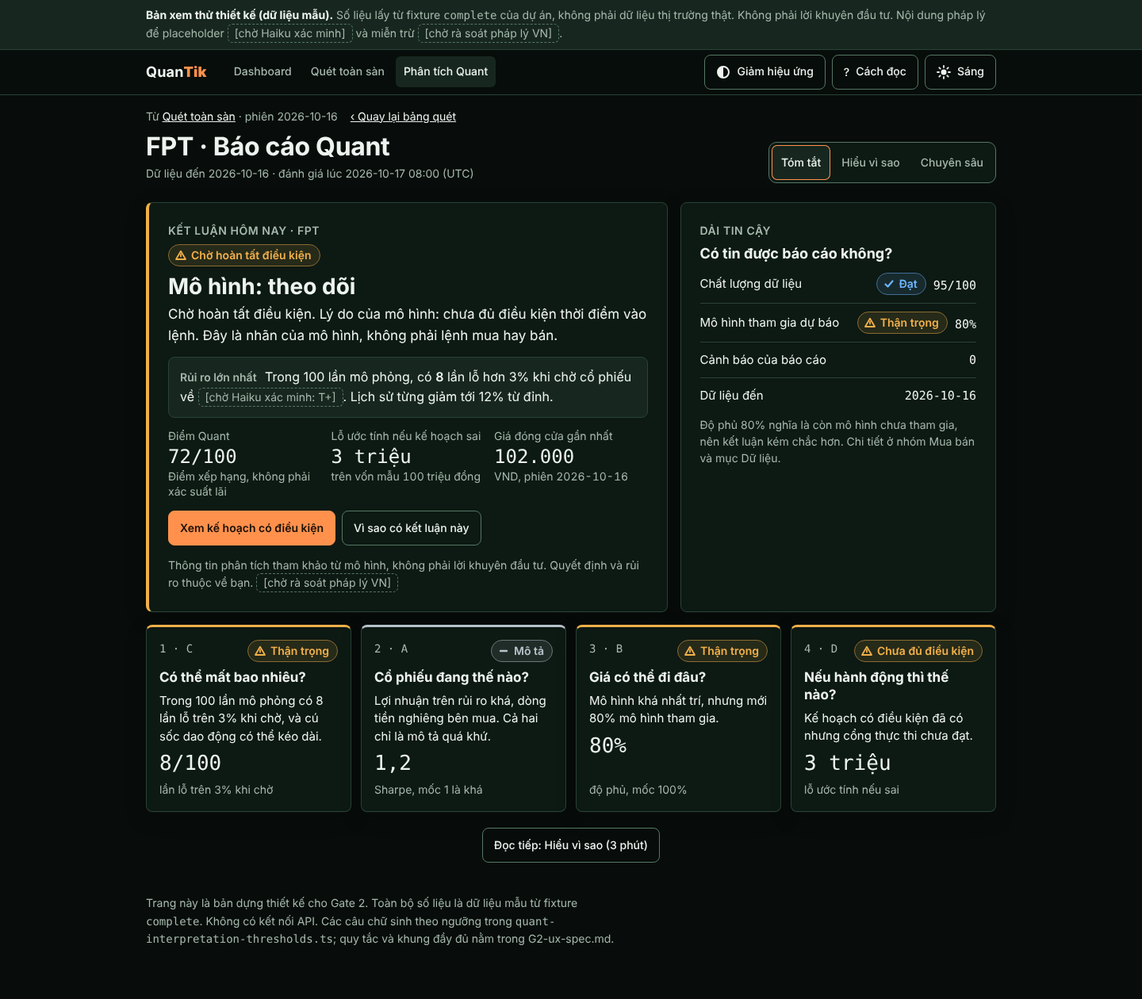
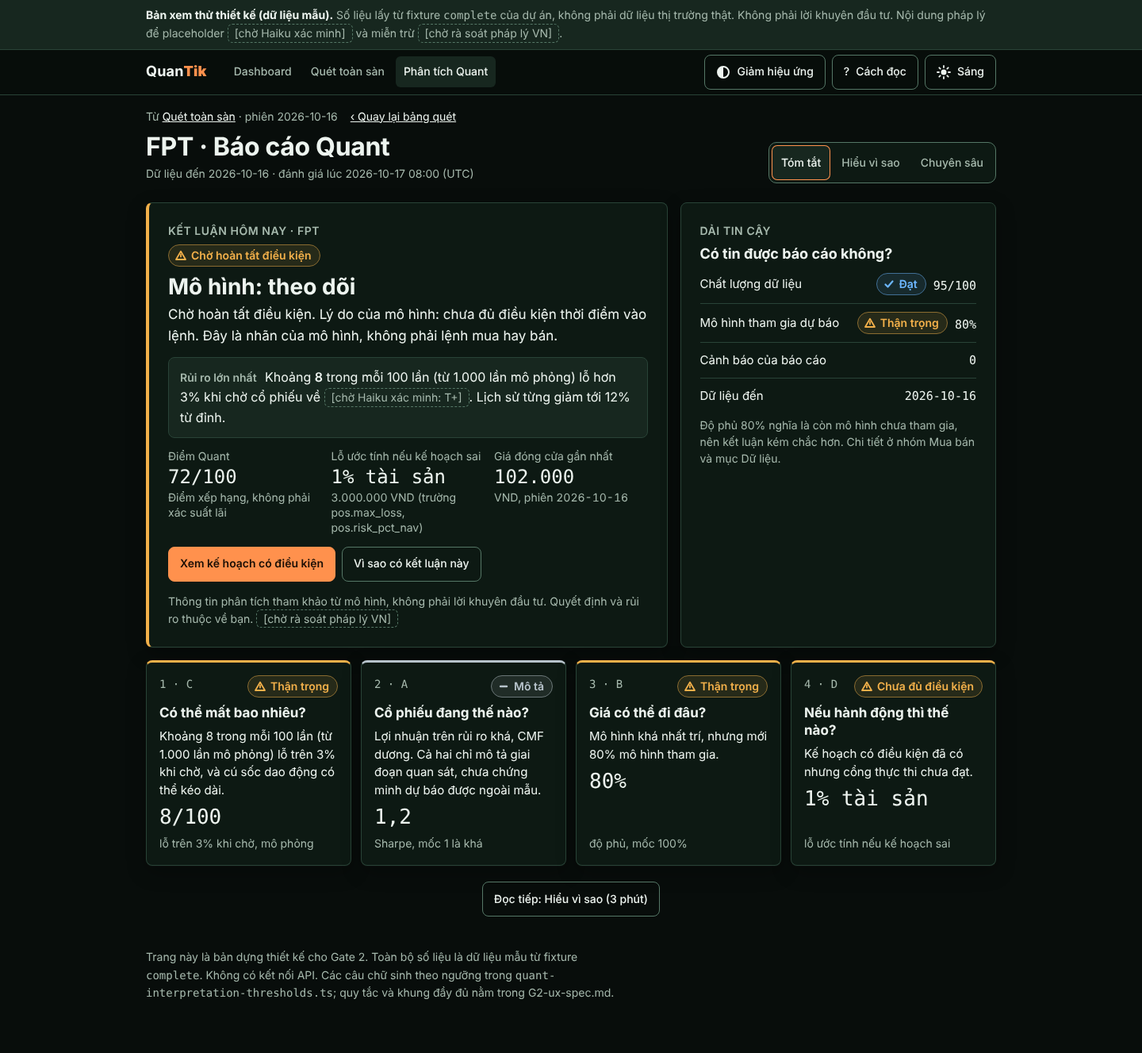
research(redesign): fix Gate 2 math blockers in UX spec and demo
Claude-Session: https://claude.ai/code/session_01QizWzvfjpXpCBjrxjmQdSi

diff --git a/research/2026-11/redesign/demo/index.html b/research/2026-11/redesign/demo/index.html
@@ -295,10 +295,10 @@ html.calm .slide.anim .barfill{transform:none!important}
         <span class="chip caution" id="vchip"></span>
         <h2 id="vh">Mô hình: theo dõi</h2>
         <p class="lead">Chờ hoàn tất điều kiện. Lý do của mô hình: chưa đủ điều kiện thời điểm vào lệnh. Đây là nhãn của mô hình, không phải lệnh mua hay bán.</p>
-        <div class="risk-line" data-tour-risk><span><span class="lab">Rủi ro lớn nhất</span> Trong 100 lần mô phỏng, có <b>8</b> lần lỗ hơn 3% khi chờ cổ phiếu về <span class="badge">[chờ Haiku xác minh: T+]</span>. Lịch sử từng giảm tới 12% từ đỉnh.</span></div>
+        <div class="risk-line" data-tour-risk><span><span class="lab">Rủi ro lớn nhất</span> Khoảng <b>8</b> trong mỗi 100 lần (từ 1.000 lần mô phỏng) lỗ hơn 3% khi chờ cổ phiếu về <span class="badge">[chờ Haiku xác minh: T+]</span>. Lịch sử từng giảm tới 12% từ đỉnh.</span></div>
         <dl class="kv">
           <div><dt>Điểm Quant</dt><dd>72/100<small>Điểm xếp hạng, không phải xác suất lãi</small></dd></div>
-          <div><dt>Lỗ ước tính nếu kế hoạch sai</dt><dd>3 triệu<small>trên vốn mẫu 100 triệu đồng</small></dd></div>
+          <div><dt>Lỗ ước tính nếu kế hoạch sai</dt><dd>1% tài sản<small>3.000.000 VND (trường pos.max_loss, pos.risk_pct_nav)</small></dd></div>
           <div><dt>Giá đóng cửa gần nhất</dt><dd>102.000<small>VND, phiên 2026-10-16</small></dd></div>
         </dl>
         <div class="cta">
@@ -339,7 +339,7 @@ html.calm .slide.anim .barfill{transform:none!important}
     <article class="card" aria-labelledby="mch">
       <p class="eyebrow">10 · MONTE CARLO</p>
       <h3 id="mch">Giá sau 3 phiên có thể nằm đâu?</h3>
-      <p style="margin:6px 0 14px;max-width:68ch">Trong 100 lần mô phỏng, 62 lần giá cao hơn hôm nay và 38 lần thấp hơn hoặc bằng. <span id="p9">Chín trong mười lần, giá nằm trong dải P05 đến P95.</span> Đây là kịch bản mô phỏng, không phải lời hứa.</p>
+      <p style="margin:6px 0 14px;max-width:68ch">Khoảng 62 trong mỗi 100 lần (từ 1.000 lần mô phỏng), giá sau 3 phiên cao hơn hôm nay; khoảng 38 trong 100 lần thấp hơn hoặc bằng. <span id="p9">Ở mỗi phiên, 9 trong 10 lần giá nằm trong dải P05 đến P95.</span> Đây là kịch bản mô phỏng, không phải lời hứa.</p>
       <div class="mc-layout">
         <figure class="vis fan anim" id="fan" style="margin:0">
           <div id="fanbox"></div>
@@ -347,15 +347,20 @@ html.calm .slide.anim .barfill{transform:none!important}
           <figcaption>Dải ngoài là P05 đến P95 (9 trong 10 lần). Dải trong là P25 đến P75 (1 nửa số lần). Đường liền là P50. Điểm gốc là giá đóng cửa gần nhất. Trục ngang là số phiên sau hôm nay.</figcaption>
         </figure>
         <div>
-          <p class="lab" style="margin:0 0 8px">62 trong 100 lần mô phỏng</p>
-          <div class="dotgrid anim" id="dots100" role="img" aria-label="Lưới 100 chấm: 62 chấm đặc là giá cao hơn hôm nay, 38 chấm rỗng là giá thấp hơn hoặc bằng"></div>
+          <p class="lab" style="margin:0 0 8px">Khoảng 62 trong mỗi 100 lần (từ 1.000 lần mô phỏng)</p>
+          <div class="dotgrid anim" id="dots100" role="img" aria-label="Lưới 100 chấm, mỗi chấm là 1% trong 1.000 lần mô phỏng: 62 chấm đặc là giá cao hơn hôm nay, 38 chấm rỗng là thấp hơn hoặc bằng"></div>
           <ul class="legend"><li><i class="a"></i>62: giá cao hơn hôm nay</li><li><i class="c"></i>38: thấp hơn hoặc bằng</li></ul>
           <dl class="nums" style="grid-template-columns:1fr 1fr;margin-top:14px">
-            <div><dt>Lỗ tối đa khi chờ cổ phiếu về</dt><dd>-4%</dd></div>
-            <div><dt>Lỗ trên 3% khi chờ</dt><dd>8/100</dd></div>
+            <div><dt>Sụt giảm khi chờ cổ phiếu về (mô phỏng)</dt><dd>-4%</dd></div>
+            <div><dt>Lỗ trên 3% khi chờ (khoảng 80 trên 1.000 lần)</dt><dd>8/100</dd></div>
           </dl>
         </div>
       </div>
+      <figure class="vis" id="simhist" style="margin:18px 0 0">
+        <p class="lab" style="margin:0 0 8px">Phân phối giá cuối kỳ mô phỏng (3 nhóm)</p>
+        <div id="simhistbox"></div>
+        <figcaption>Nguồn: phân phối mô phỏng Monte Carlo (research.distribution, 1.000 lần), không phải lợi suất lịch sử. Mỗi cột là tỷ lệ kịch bản có lợi suất cuối kỳ trong nhóm đó. Chỉ có 3 nhóm, không phải phân phối đầy đủ.</figcaption>
+      </figure>
       <details class="alt"><summary>Bảng số thay thế cho biểu đồ</summary>
         <div class="scroll-x"><table class="tbl"><caption>Phân vị giá mô phỏng (VND). Phiên 0 là giá đóng cửa gần nhất.</caption>
         <thead><tr><th scope="col">Phiên</th><th scope="col">P05</th><th scope="col">P25</th><th scope="col">P50</th><th scope="col">P75</th><th scope="col">P95</th></tr></thead><tbody id="tbody"></tbody></table></div>
@@ -417,21 +422,21 @@ var G={
  pers:['Độ dai dẳng α+β: cú sốc kéo dài bao lâu','Từ 0,9 là kéo dài; từ 1 là không có mức dài hạn ổn định.','Trong báo cáo này: 0,96.'],
  half:['Chu kỳ bán rã: số phiên để cú sốc giảm một nửa','Của độ dao động, không phải của giá.','Trong báo cáo này: 17 phiên.'],
  hmm:['HMM: trạng thái thị trường ẩn','Mô hình đoán thị trường đang ở pha tăng, đi ngang hay giảm.',''],
- filt:['Xác suất lọc: độ chắc của nhãn trạng thái','Chỉ dùng dữ liệu đến phiên cuối. Không phải xác suất lãi và không dùng để ra lệnh.','Trong báo cáo này: pha tăng 67%.'],
- cmf:['CMF: dòng tiền ước lượng','Tính từ vị trí đóng cửa và khối lượng. Trên 0 là nghiêng về bên mua. Không phải tiền nạp rút thật.','Trong báo cáo này: 0,21.'],
+ pk:['Xác suất trạng thái: độ chắc của nhãn','Báo cáo chưa nói đây là xác suất lọc (chỉ dùng dữ liệu đến phiên cuối) hay làm mượt (dùng cả dữ liệu về sau). Chưa rõ loại xác suất (lọc/làm mượt), nên chỉ đọc như mô tả. Không phải xác suất lãi.','Trong báo cáo này: pha tăng 67%.'],
+ cmf:['CMF: dòng tiền ước lượng','Tính từ vị trí đóng cửa và khối lượng. Trên 0: giá đóng cửa gần đỉnh phiên hơn. Chỉ mô tả giai đoạn quan sát, chưa chứng minh dự báo được ngoài mẫu. Không phải tiền nạp rút thật.','Trong báo cáo này: 0,21.'],
  er:['ER: hiệu quả xu hướng','Từ 0,3 trở xuống là đường giá nhiều nhiễu.','Trong báo cáo này: 0,58.'],
  rs20:['RS20: sức mạnh 20 phiên so với VN-Index','Dương nghĩa là lợi suất 20 phiên vượt VN-Index.','Trong báo cáo này: +4,2%.'],
  corr:['Tương quan: hai mã có cùng chiều không','Từ -1 đến +1. Gần 0 không chứng minh độc lập.','Trong báo cáo này: 0,64.'],
- mom:['Momentum: đà giá gần đây','Điểm có dấu để mô tả. Không phải tín hiệu mua bán.','Trong báo cáo này: 0,4.'],
+ mom:['Momentum: đà giá gần đây','Điểm có dấu để mô tả quá khứ. Chưa chứng minh dự báo được ngoài mẫu.','Trong báo cáo này: 0,4.'],
  hurst:['Hurst: xu hướng duy trì hay đảo chiều','Trên 0,5 gợi ý duy trì, dưới 0,5 gợi ý đảo chiều. Ước lượng có sai số khi mẫu ngắn.','Trong báo cáo này: 0,61.'],
  cover:['Độ phủ: bao nhiêu mô hình tham gia','100% là đầy đủ theo cách tính của báo cáo.','Trong báo cáo này: 80%.'],
  agree:['Đồng thuận: mức nhất trí giữa các mô hình','Không phải xác suất lãi. Các mô hình dùng chung dữ liệu nên chưa phải bằng chứng độc lập.','Trong báo cáo này: 75%.'],
  mc:['Monte Carlo: mô phỏng nhiều kịch bản giá','Chạy nhiều đường giá ngẫu nhiên theo giả định về dao động quá khứ.',''],
- pct:['P05 / P50 / P95: 5, 50, 95 trong 100','P05: 5 trong 100 kịch bản thấp hơn mức này. P95 thì ngược lại. P50 là mức giữa.',''],
+ pct:['P05 / P50 / P95: 5, 50, 95 trong 100','P05: 5 trong 100 kịch bản thấp hơn mức này. P95: 95 trong 100 kịch bản thấp hơn mức này. P50 là mức giữa.',''],
  tplus:['T+ (thời gian chờ cổ phiếu về)','[chờ Haiku xác minh]',''],
- rt:['Chi phí hai chiều: phí mua cộng phí bán','Giả định của báo cáo. Mức phí và thuế thực tế theo công ty chứng khoán [chờ Haiku xác minh].','Trong báo cáo này: 0,6%.'],
+ rt:['Chi phí hai chiều: tổng chi phí mua và bán','Tổng theo giả định của báo cáo; có thể gồm phí, thuế, trượt giá nhưng báo cáo không tách. Mức thực tế theo công ty chứng khoán [chờ Haiku xác minh].','Trong báo cáo này: 0,6%.'],
  sl:['Cắt lỗ và mục tiêu: các mức giá của kế hoạch','Điều kiện của kế hoạch, không phải dự báo giá sẽ chạm. Biên độ giá [chờ Haiku xác minh].',''],
- rr:['Tỷ lệ lãi/lỗ (R:R)','So lãi tới mục tiêu với lỗ nếu sai. Không nói xác suất chạm mức nào.','Trong báo cáo này: 3,33, còn 1,92 sau chi phí.'],
+ rr:['Tỷ lệ lãi/lỗ (R:R)','So lãi tới mục tiêu 2 với lỗ nếu sai, trước chi phí: (110.000 - 100.000) / (100.000 - 97.000) = 3,33. Giá trị sau chi phí lấy nguyên từ báo cáo, công thức chưa công bố nên không tự suy ra. Không nói xác suất chạm mức nào.','Trong báo cáo này: 3,33 (sl.rr2); 1,92 sau chi phí (sl.rr_net_cost, công thức chưa công bố).'],
  adv:['Giá trị giao dịch TB 20 phiên','Thước đo độ dễ vào ra. Giao dịch nhiều không có nghĩa là tiền đang vào ròng.','Trong báo cáo này: 120 tỷ VND.'],
  gate:['Cổng điều kiện','Các điều kiện phải đạt trước khi hành động. Điểm cao vẫn có thể bị chặn.',''],
  score:['Điểm Quant: điểm xếp hạng','Xếp hạng chất lượng theo hệ thống, không phải xác suất lãi.','Trong báo cáo này: 72/100.']
@@ -488,62 +493,62 @@ function bars(rows,max,unit){
 var M=[
  {g:'C',no:'04',id:'garch',tone:'caution',name:'Dự báo độ rung lắc giá',tech:'GARCH',
   v:'Giá đang dao động khoảng 2% mỗi phiên và cú sốc có thể kéo dài.',
-  why:'Chỉ số {{pers|dai dẳng α+β}} là 0,96, trên mốc tham khảo 0,9. Nghĩa là dao động cao hôm nay còn ảnh hưởng nhiều phiên sau.',
+  why:'Chỉ số {{pers|dai dẳng α+β}} là 0,96, trên mốc tham khảo 0,9. Nghĩa là cú sốc dao động hôm nay còn ảnh hưởng vài phiên sau.',
   nums:[['Biến động hiện tại','2 %/phiên',''],['Dai dẳng α+β','0,96','mốc 0,9 và 1'],['{{half|Chu kỳ bán rã}}','17 phiên','của dao động']],
   caut:'Đây là độ lớn dao động, không cho biết giá lên hay xuống.',
   vis:function(){return scaleBar(0,1.2,.96,[[0,'0','start'],[.9,'0,9'],[1,'1'],[1.2,'1,2','end']],{label:'Dai dẳng 0,96 trên thang 0 đến 1,2, mốc 0,9 và 1',zones:[[.9,1,'var(--s-caution)',.35],[1,1.2,'var(--s-risk)',.35]]})},
   cap:'Vùng vàng 0,9 đến 1: cú sốc kéo dài. Vùng sau 1: không có mức dài hạn ổn định.',slide:true},
- {g:'C',no:'10',id:'mc',tone:'caution',name:'Mô phỏng nhiều kịch bản giá',tech:'Monte Carlo',
-  v:'Trong 100 lần mô phỏng, 62 lần giá sau 3 phiên cao hơn hôm nay, 38 lần thấp hơn hoặc bằng.',
-  why:'Mô phỏng dùng biến động GARCH-t. Có 8 trong 100 lần lỗ hơn 3% khi chờ cổ phiếu về {{tplus|[chờ Haiku xác minh]}}.',
-  nums:[['Giá cuối kỳ cao hơn','62/100','mốc 50'],['Lỗ tối đa khi chờ','-4%',''],['Lỗ trên 3% khi chờ','8/100','']],
+ {g:'C',no:'10',id:'mc',tone:'neutral',name:'Mô phỏng nhiều kịch bản giá',tech:'Monte Carlo',
+  v:'Khoảng 62 trong mỗi 100 lần (từ 1.000 lần mô phỏng), giá sau 3 phiên cao hơn hôm nay; khoảng 38 lần thấp hơn hoặc bằng.',
+  why:'Mô phỏng dùng biến động GARCH-t. Khoảng 8 trong mỗi 100 lần (khoảng 80 trên 1.000 lần mô phỏng) lỗ hơn 3% khi chờ cổ phiếu về {{tplus|[chờ Haiku xác minh]}}.',
+  nums:[['Giá cuối kỳ cao hơn','62/100','mốc 50'],['Sụt giảm khi chờ (mô phỏng)','-4%',''],['Lỗ trên 3% khi chờ','8/100','từ 1.000 lần']],
   caut:'{{mc|Mô phỏng}} dựa trên giả định từ quá khứ, không phải lời hứa. Giá thật có thể ra ngoài dải.',
   vis:function(){return dots([{n:62,cls:'a'},{n:38,cls:'c'}],true)+legend([['a','62 cao hơn hôm nay'],['c','38 thấp hơn hoặc bằng']])},
-  cap:'Mỗi chấm là một lần mô phỏng, gom nhóm theo hàng. Biểu đồ dải giá ở lớp Chuyên sâu.',deep:true},
+  cap:'Mỗi chấm là 1% trong 1.000 lần mô phỏng, gom nhóm theo hàng. Biểu đồ dải giá ở lớp Chuyên sâu.',deep:true},
  {g:'C',no:'02',id:'distribution',tone:'caution',name:'Hình dạng lợi suất lịch sử',tech:'Phân phối',
   v:'Lợi suất quá khứ có đuôi dày: cú tăng giảm lớn xảy ra nhiều hơn mức bình thường.',
   why:'{{kurt|Độ nhọn dư}} 2,44, trên mốc 0 của phân phối chuẩn. {{skew|Độ lệch}} -0,49 nghĩa là phía giảm có đuôi dài hơn.',
   nums:[['Độ nhọn dư','2,44','mốc 0'],['Độ lệch','-0,49','mốc 0'],['Giống phân phối chuẩn?','Không','']],
   caut:'Báo cáo chưa có VaR/CVaR lịch sử nên chưa đo được mức lỗ ở đuôi.',
-  vis:function(){return histo()},cap:'Phân bố lợi suất trong mẫu: 3 nhóm (20%, 50%, 30%). Không tô theo dấu.'},
+  vis:function(){return '<p class="caut" style="margin:0">Chưa đủ chuỗi lợi suất lịch sử để vẽ hình phân phối.</p>'},cap:'Chuỗi giá mẫu chỉ có 7 điểm. Histogram 3 nhóm ở mức Chuyên sâu (module 10) là phân phối mô phỏng, không phải lợi suất lịch sử.'},
  {g:'C',no:'13',id:'liquidity',tone:'ok',name:'Dễ mua bán nhanh',tech:'Thanh khoản',
   v:'Cổ phiếu đạt điều kiện thanh khoản của báo cáo.',
   why:'{{adv|Giá trị giao dịch}} trung bình 20 phiên khoảng 120 tỷ đồng. Nhịp gần đây cao hơn nền 1,2 lần (mốc 1).',
-  nums:[['Giao dịch TB 20 phiên','120 tỷ','VND'],['Tỷ lệ 5/20 phiên','1,2x','mốc 1'],['Sức chứa tham chiếu','20.000','cổ phiếu']],
+  nums:[['Giao dịch TB 20 phiên','120 tỷ','VND'],['Tỷ lệ 5/20 phiên','1,2x','mốc 1'],['Sức chứa tham chiếu','20.000','cổ phiếu, cơ sở theo báo cáo']],
   caut:'Giao dịch nhiều không có nghĩa tiền đang vào ròng. Lệnh lớn vẫn có thể trượt giá.'},
  {g:'A',no:'01',id:'statistics',tone:'neutral',name:'Lợi nhuận trên mỗi đơn vị rủi ro',tech:'Hiệu suất',
   v:'Năm qua cổ phiếu sinh lời khá so với mức dao động đã chịu.',
-  why:'{{sharpe|Sharpe}} 1,2, giữa mốc khá (1) và rất tốt (2). {{dd|Sụt giảm sâu nhất}} là -12%: 100 triệu đồng từng còn khoảng 88 triệu ở đáy.',
+  why:'{{sharpe|Sharpe}} 1,2, giữa mốc khá (1) và rất tốt (2). {{dd|Sụt giảm sâu nhất}} là -12%: mỗi 100 đồng ở đỉnh từng còn khoảng 88 đồng ở đáy.',
   nums:[['Lợi suất quy đổi năm','24,5%',''],['Sụt giảm tối đa','-12%',''],['Sharpe','1,2','mốc 1 và 2']],
   caut:'Đây là quá khứ, không đảm bảo năm tới.',
   vis:function(){return scaleBar(0,3,1.2,[[0,'0','start'],[1,'1'],[2,'2'],[3,'3','end']],{label:'Sharpe 1,2 trên thang 0 đến 3, mốc 1 và 2'})},cap:'Mốc 1 và 2 chỉ để đọc, không phải ngưỡng mua bán.',slide:true},
  {g:'A',no:'06',id:'technical',tone:'neutral',badge:'Chưa kiểm chứng ngoài mẫu',name:'Dòng tiền và chất lượng xu hướng',tech:'Kỹ thuật',
-  v:'Dòng tiền gần đây nghiêng về bên mua và đường giá khá rõ hướng.',
-  why:'{{cmf|CMF}} 0,21, trên 0. {{er|ER}} 0,58, trên mốc nhiễu 0,3. Đây là mô tả, không phải tín hiệu.',
+  v:'Trong giai đoạn quan sát, CMF dương và đường giá khá rõ hướng. Chỉ mô tả, chưa chứng minh dự báo được ngoài mẫu.',
+  why:'{{cmf|CMF}} 0,21, trên 0: giá đóng cửa gần đỉnh phiên hơn. {{er|ER}} 0,58, trên mốc nhiễu 0,3. Chỉ mô tả quá khứ.',
   nums:[['Dòng tiền CMF','0,21','mốc 0'],['Hiệu quả xu hướng ER','0,58','mốc 0,3'],['{{rs20|Sức mạnh 20 phiên}} so VN-Index','+4,2%','']],
-  caut:'CMF ước lượng từ giá và khối lượng, không phải tiền thật. Không dùng riêng làm tín hiệu.'},
- {g:'A',no:'05',id:'hmm',tone:'neutral',name:'Trạng thái thị trường đang là gì',tech:'HMM',
-  v:'Mô hình nhận ra pha tăng ở phiên cuối, với xác suất lọc 67%.',
-  why:'{{filt|Xác suất lọc}} chỉ dùng dữ liệu đến phiên cuối. 67% vượt một nửa (mốc 50%); đi ngang 24%, giảm 9%.',
+  caut:'CMF ước lượng từ giá và khối lượng, không phải tiền thật. Chưa chứng minh dự báo được ngoài mẫu.'},
+ {g:'A',no:'05',id:'hmm',tone:'neutral',badge:'Chưa rõ loại xác suất (lọc/làm mượt)',name:'Trạng thái thị trường đang là gì',tech:'HMM',
+  v:'Mô hình gọi phiên cuối là pha tăng, độ chắc 67%. Chỉ mô tả.',
+  why:'{{pk|Xác suất trạng thái}}: chưa rõ loại xác suất (lọc/làm mượt). 67% vượt một nửa (mốc 50%); đi ngang 24%, giảm 9%.',
   nums:[['Pha tăng','67%',''],['Đi ngang','24%',''],['Pha giảm','9%','']],
-  caut:'Đây là độ chắc của việc gọi tên trạng thái, không phải xác suất lãi và không dùng để ra lệnh.',
-  vis:function(){return dots([{n:67,cls:'a'},{n:24,cls:'b'},{n:9,cls:'r'}],true)+legend([['a','67 pha tăng'],['b','24 đi ngang'],['r','9 pha giảm']])},cap:'100 chấm theo tỷ lệ xác suất lọc, thứ tự cố định.'},
+  caut:'Đây là độ chắc của việc gọi tên trạng thái, không phải xác suất lãi và không dùng để ra lệnh. Chưa chứng minh dự báo được ngoài mẫu.',
+  vis:function(){return dots([{n:67,cls:'a'},{n:24,cls:'b'},{n:9,cls:'r'}],true)+legend([['a','67 pha tăng'],['b','24 đi ngang'],['r','9 pha giảm']])},cap:'100 chấm theo tỷ lệ xác suất trạng thái (chưa rõ loại), thứ tự cố định.'},
  {g:'A',no:'08',id:'context',tone:'neutral',name:'So với ngành và thị trường',tech:'Thị trường & ngành',
   v:'Ngành Công nghệ đang ở xu hướng tăng, và các mã trong ngành khá cùng chiều.',
   why:'{{corr|Tương quan}} trung bình giữa các mã là 0,64, trên mốc 0. Ngành tăng 3,1% trong 20 phiên.',
   nums:[['Ngành','Công nghệ',''],['Xu hướng ngành','Tăng',''],['Tương quan TB','0,64','mốc 0']],
   caut:'Tương quan cao nghĩa là ngành lên xuống cùng nhau, nên đa dạng hóa trong ngành giúp ít.',
   vis:function(){return scaleBar(-1,1,.64,[[-1,'-1','start'],[0,'0'],[1,'+1','end']],{label:'Tương quan 0,64 trên thang -1 đến +1'})},cap:'Thang -1 (ngược chiều) đến +1 (cùng chiều).',slide:true},
- {g:'B',no:'03',id:'arima',tone:'ok',name:'Kiểm tra giá có ổn định hay không',tech:'ARIMA',
-  v:'Chuỗi lợi suất đủ ổn định để mô hình ARIMA đọc được.',
+ {g:'B',no:'03',id:'arima',tone:'ok',chipText:'Đạt mốc ADF',name:'Kiểm tra giá có ổn định hay không',tech:'ARIMA',
+  v:'ADF p 0,012 bác bỏ giả thuyết chuỗi không ổn định ở mức 5%. Đây là chẩn đoán, không phải dự báo.',
   why:'{{adf|ADF p-value}} 0,012, dưới mốc 0,05. Mô hình chọn cấu hình (1, 0, 1).',
   nums:[['ADF p-value','0,012','mốc 0,05'],['Cấu hình','(1, 0, 1)',''],['Dự báo 3 phiên','102.200 đến 102.600','VND']],
   caut:'ARIMA là chẩn đoán tham khảo; đường dự báo không phải giá sẽ đi theo. AIC thấp không có nghĩa mô hình đúng.',
   vis:function(){return arimaLine()},cap:'Điểm gốc là giá đóng cửa gần nhất 102.000; 3 điểm là dự báo công bố.'},
  {g:'B',no:'07',id:'directional_alpha',tone:'neutral',badge:'Chưa kiểm chứng ngoài mẫu',name:'Đà giá và so sánh trong rổ',tech:'Alpha có hướng',
-  v:'Đà gần đây nghiêng về tăng, nhưng bằng chứng ngoài mẫu còn yếu.',
+  v:'Điểm động lượng 0,4 (dương), chỉ mô tả quá khứ. Chưa chứng minh dự báo được ngoài mẫu.',
   why:'Điểm {{mom|động lượng}} 0,4 trên mốc 0. {{hurst|Hurst}} 0,61 trên mốc 0,5, gợi ý xu hướng có tính duy trì.',
-  nums:[['Điểm động lượng','0,4','mốc 0'],['Hurst','0,61','mốc 0,5'],['Thứ hạng trong rổ','80%','không phải xác suất lãi']],
+  nums:[['Điểm động lượng','0,4','mốc 0'],['Hurst','0,61','mốc 0,5'],['Vị trí trong rổ','80/100','không phải xác suất lãi']],
   caut:'Hồi quy phần dư chưa kích hoạt nên không được tính như một phiếu xác nhận.'},
  {g:'B',no:'09',id:'agreement',tone:'caution',name:'Các mô hình có nhất trí không',tech:'Đồng thuận',
   v:'Các mô hình khá nhất trí, nhưng mới 80% mô hình tham gia.',
@@ -551,14 +556,14 @@ var M=[
   nums:[['Dự báo tổng hợp','+4,1%','3 phiên'],['Đồng thuận','75%',''],['Độ phủ','80%','mốc 100']],
   caut:'Nhất trí không phải xác suất lãi. Các mô hình dùng chung dữ liệu nên bằng chứng không độc lập.'},
  {g:'D',no:'12',id:'trade_plan',tone:'neutral',name:'Các mức giá của kế hoạch có điều kiện',tech:'Kế hoạch vị thế',
-  v:'Nếu vào ở 100.000 và kế hoạch sai, lỗ ước tính 3 triệu đồng.',
-  why:'{{sl|Cắt lỗ}} 97.000, mục tiêu 105.000 và 110.000. {{rr|Tỷ lệ lãi/lỗ}} tới mục tiêu 2 là 3,33, còn 1,92 sau chi phí.',
-  nums:[['Lỗ ước tính tại cắt lỗ','3.000.000','VND, 1% tài sản'],['Giá vào','100.000','VND'],['Mục tiêu 1 và 2','105.000 / 110.000','VND']],
+  v:'Nếu vào ở 100.000 và kế hoạch sai, lỗ ước tính khoảng 1% tài sản (3.000.000 VND).',
+  why:'{{sl|Cắt lỗ}} 97.000, mục tiêu 105.000 và 110.000. {{rr|Tỷ lệ lãi/lỗ}} tới mục tiêu 2 là 3,33 (trường sl.rr2). Báo cáo ghi 1,92 sau chi phí (trường sl.rr_net_cost, công thức chưa công bố).',
+  nums:[['Lỗ ước tính tại cắt lỗ','1% tài sản','3.000.000 VND (pos.max_loss)'],['Giá vào','100.000','VND'],['Mục tiêu 1 và 2','105.000 / 110.000','VND']],
   caut:'Cắt lỗ không đảm bảo bán được đúng giá khi giá nhảy hoặc thanh khoản thấp. Biên độ giá và thời gian chờ về {{tplus|[chờ Haiku xác minh]}}.',
   vis:function(){return ladder()},cap:'Đoạn gạch chéo là phần lỗ, đoạn nền là phần lãi tới mục tiêu. Đây là kế hoạch có điều kiện, không phải lệnh.'},
- {g:'D',no:'11',id:'costs',tone:'ok',name:'Còn lại bao nhiêu sau phí',tech:'Chi phí',
+ {g:'D',no:'11',id:'costs',tone:'neutral',name:'Còn lại bao nhiêu sau phí',tech:'Chi phí',
   v:'Dự báo gộp 4,1%, trừ phí còn 3,5%.',
-  why:'{{rt|Chi phí hai chiều}} là 0,6% [chờ Haiku xác minh: phí và thuế]. Sau phí còn dương, nhưng dự báo dương không bảo đảm có lãi.',
+  why:'{{rt|Chi phí hai chiều}} là 0,6% [chờ Haiku xác minh: phí và thuế]. Sau phí là +3,5%, mốc hòa vốn 0. Dự báo dương không bảo đảm có lãi.',
   nums:[['Trước phí','+4,1%',''],['Chi phí hai chiều','0,6%',''],['Sau phí','+3,5%','mốc 0']],
   caut:'Mức phí và thuế thực tế khác theo công ty chứng khoán [chờ Haiku xác minh].',
   vis:function(){return bars([['Trước phí',D.costs.gross,'var(--band)',.9,true],['Chi phí',D.costs.rt,'var(--s-caution)',.9,false],['Sau phí',D.costs.net,'var(--band)',.9,true]],4.5,'%')},cap:'Ba cột cùng một thang, bắt đầu từ 0.',slide:true},
@@ -573,14 +578,14 @@ var M=[
   nums:[['Trạng thái','Đạt',''],['Điểm','95/100','thang 0 đến 100'],['Số cảnh báo','0','']],
   caut:'Điểm chấm dữ liệu đầu vào, không chấm chất lượng cổ phiếu.'},
  {g:'T',no:'16',id:'commentary',tone:'neutral',name:'Tóm tắt bằng lời của báo cáo',tech:'Nhận định',
-  v:'Báo cáo xếp tín hiệu đang theo dõi, chưa đủ điều kiện thực thi.',
-  why:'Điểm hỗ trợ: pha tăng [05], dòng tiền nghiêng bên mua [06], sau phí còn +3,5% [11]. Rủi ro chính: lỗ trên 3% khi chờ [10], từng giảm 12% từ đỉnh [01].',
+  v:'Mô hình đang ở trạng thái theo dõi, chưa đủ điều kiện thực thi.',
+  why:'Các điểm mô tả: HMM gọi phiên cuối là pha tăng [05]; CMF dương chỉ là mô tả dòng tiền ước lượng [06]; dự báo sau phí +3,5% [11] nhưng chưa đủ điều kiện thời điểm [15]. Chưa chứng minh dự báo được ngoài mẫu. Rủi ro nổi bật: khoảng 8 trong 100 lần mô phỏng lỗ trên 3% khi chờ [10], từng giảm 12% từ đỉnh [01].',
   nums:[['Nguồn câu chữ','5 module',''],['Số mới thêm','0',''],['Cảnh báo','0','']],
   caut:'Đoạn tổng hợp; số liệu gốc ở từng module. Không có số nào ngoài module.'}
 ];
 var GROUPS={C:['C','Rủi ro','Có thể mất bao nhiêu?'],A:['A','Hiện trạng','Cổ phiếu đang thế nào?'],B:['B','Triển vọng','Giá có thể đi đâu?'],D:['D','Mua bán','Nếu hành động thì thế nào?'],T:['','Có tin được báo cáo không?','Dữ liệu và tóm tắt bằng lời']};
 function histo(){
-  var bins=[['-5 đến -1',20],['-1 đến 3',50],['3 đến 7',30]],W=320,H=130,s='<svg viewBox="0 0 '+W+' '+H+'" role="img" aria-label="Phân bố lợi suất: 20% trong -5 đến -1, 50% trong -1 đến 3, 30% trong 3 đến 7"><g class="axis">';
+  var bins=[['-5 đến -1',20],['-1 đến 3',50],['3 đến 7',30]],W=320,H=130,s='<svg viewBox="0 0 '+W+' '+H+'" role="img" aria-label="Phân phối mô phỏng của lợi suất cuối kỳ: 20% kịch bản trong -5 đến -1, 50% trong -1 đến 3, 30% trong 3 đến 7"><g class="axis">';
   bins.forEach(function(b,i){var h=b[1]/50*80,x=14+i*100;s+='<rect x="'+x+'" y="'+(94-h)+'" width="92" height="'+h+'" fill="var(--band)" opacity=".7" class="barfill"/><text x="'+(x+46)+'" y="'+(88-h)+'" text-anchor="middle" style="font-family:var(--mono);fill:var(--text)" class="big">'+b[1]+'%</text><text x="'+(x+46)+'" y="116" text-anchor="middle">'+b[0]+'%</text>'});
   return s+'<line x1="8" x2="312" y1="94" y2="94" stroke="var(--line)"/></g></svg>';
 }
@@ -606,10 +611,10 @@ function modCard(m,i){
 function build(){
   // lớp 1: thẻ nhóm
   var g1=[
-   ['C','caution','Thận trọng','Có thể mất bao nhiêu?','Trong 100 lần mô phỏng có 8 lần lỗ trên 3% khi chờ, và cú sốc dao động có thể kéo dài.','8/100','lần lỗ trên 3% khi chờ'],
-   ['A','neutral','Mô tả','Cổ phiếu đang thế nào?','Lợi nhuận trên rủi ro khá, dòng tiền nghiêng bên mua. Cả hai chỉ là mô tả quá khứ.','1,2','Sharpe, mốc 1 là khá'],
+   ['C','caution','Thận trọng','Có thể mất bao nhiêu?','Khoảng 8 trong mỗi 100 lần (từ 1.000 lần mô phỏng) lỗ trên 3% khi chờ, và cú sốc dao động có thể kéo dài.','8/100','lỗ trên 3% khi chờ, mô phỏng'],
+   ['A','neutral','Mô tả','Cổ phiếu đang thế nào?','Lợi nhuận trên rủi ro khá, CMF dương. Cả hai chỉ mô tả giai đoạn quan sát, chưa chứng minh dự báo được ngoài mẫu.','1,2','Sharpe, mốc 1 là khá'],
    ['B','caution','Thận trọng','Giá có thể đi đâu?','Mô hình khá nhất trí, nhưng mới 80% mô hình tham gia.','80%','độ phủ, mốc 100%'],
-   ['D','caution','Chưa đủ điều kiện','Nếu hành động thì thế nào?','Kế hoạch có điều kiện đã có nhưng cổng thực thi chưa đạt.','3 triệu','lỗ ước tính nếu sai']
+   ['D','caution','Chưa đủ điều kiện','Nếu hành động thì thế nào?','Kế hoạch có điều kiện đã có nhưng cổng thực thi chưa đạt.','1% tài sản','lỗ ước tính nếu kế hoạch sai']
   ];
   $('#groups').innerHTML=g1.map(function(x,i){return '<a class="card gcard '+x[1]+'" href="#grp-'+x[0]+'" data-group="'+x[0]+'"'+(i===0?' data-tour="gc"':'')+'><div class="gh"><span class="order" aria-label="Thứ tự đọc '+(i+1)+'">'+(i+1)+' · '+x[0]+'</span>'+chip(x[1],x[2])+'</div><span class="q">'+x[3]+'</span><p>'+x[4]+'</p><span class="big">'+x[5]+'</span><span class="more">'+x[6]+'</span></a>'}).join('');
   // lớp 2
@@ -624,6 +629,7 @@ function build(){
   $('#tbody').innerHTML='<tr><td>0 (hôm nay)</td><td colspan="5" style="text-align:center">'+fmt(D.today)+'</td></tr>'+D.cone.map(function(r){return '<tr><td>+'+r.s+'</td><td>'+fmt(r.p05)+'</td><td>'+fmt(r.p25)+'</td><td>'+fmt(r.p50)+'</td><td>'+fmt(r.p75)+'</td><td>'+fmt(r.p95)+'</td></tr>'}).join('');
   $('#dots100').innerHTML=dots([{n:62,cls:'a'},{n:38,cls:'c'}],false).replace('<div class="dotgrid">','').replace(/<\/div>$/,'');
   $('#dots100').classList.add('dotgrid');
+  $('#simhistbox').innerHTML=histo();
   $$('#dots100 i').forEach(function(i,k){i.style.setProperty('--row',Math.floor(k/10))});
 }
 

diff --git a/research/2026-11/redesign/G2-math-review.md b/research/2026-11/redesign/G2-math-review.md
@@ -22,6 +22,20 @@ Số dòng: `ux` là `G2-ux-spec.md`, `demo` là `demo/index.html`, `fx` là `an
 
 ## 2. Lỗi chặn
 
+Trạng thái sau lượt sửa (2026-11-27). Các số dòng trong mục này là của bản trước khi sửa.
+
+| # | Trạng thái | Đã sửa ở |
+|---|---|---|
+| B1 | Đã sửa | demo: module 05 (huy hiệu "Chưa rõ loại xác suất (lọc/làm mượt)", câu kết luận, why, caption), glossary `pk` thay `filt`. ux: ràng buộc 3, khung 05, glossary #19, mục 11, mục 12 |
+| B2 | Đã sửa | demo: module 16 ("Các điểm mô tả", "Mô hình đang ở trạng thái theo dõi"), thẻ nhóm A, module 06. ux: ràng buộc 2, khung 16, khung 06. Fixture `quant-report-sample.ts` dòng 24 và `quantSummary()` chưa sửa (ngoài phạm vi, ghi ở ux khung 16) |
+| B3 | Đã sửa | demo: module 02 hiện "Chưa đủ chuỗi lợi suất lịch sử để vẽ hình phân phối"; histogram 3 nhóm chuyển sang mức Chuyên sâu, mục Monte Carlo, ghi nguồn "phân phối mô phỏng". ux: khung 02, khung 10 |
+| B4 | Đã sửa | demo: dải rủi ro lớn nhất, module 10, mức Chuyên sâu, thẻ nhóm C ("khoảng 8 trong mỗi 100 lần (từ 1.000 lần mô phỏng)", 8% × 1.000 = 80; 62% × 1.000 = 620). ux: khung 10, wireframe dòng 77 |
+| B5 | Đã sửa | demo: thẻ kết luận, thẻ nhóm D, module 12 chỉ ghi "1% tài sản" kèm 3.000.000 VND từ `pos.max_loss`; module 01 bỏ số tiền 100 triệu. ux: khung 01, 12, mục 11 |
+| B6 | Đã sửa | demo: module 07 ("Điểm động lượng 0,4 (dương), chỉ mô tả quá khứ. Chưa chứng minh dự báo được ngoài mẫu"). ux: khung 07 |
+| B7 | Đã sửa | demo: module 10 tone `neutral`. ux: §4.1, khung 10 |
+| B8 | Đã sửa | demo: module 11 tone `neutral`. ux: §4.1 (bảng tone, dòng `ok`), khung 11 |
+| B9 | Đã sửa | demo: module 12 và glossary `rr` chỉ hiện 3,33 (có công thức) và 1,92 kèm nguồn `sl.rr_net_cost`, ghi công thức chưa công bố. ux: khung 12, glossary #38 |
+
 ### B1. HMM được gọi là "xác suất lọc" trong khi API không có loại xác suất
 
 - Vị trí: `demo` dòng 526 (module 05), 525 (tone), mục glossary `filt` (dòng 281). `ux` dòng 236-239 (khung 05), dòng 360 (glossary #19). `ux` dòng 505 (mục 11) ghi chưa xác nhận filtered hay smoothed.
@@ -89,29 +103,29 @@ Số dòng: `ux` là `G2-ux-spec.md`, `demo` là `demo/index.html`, `fx` là `an
 
 ## 3. Lỗi nhỏ
 
-| # | Vị trí | Câu gốc (trích) | Vấn đề | Sửa đề xuất |
-|---|---|---|---|---|
-| N1 | `demo` 491; `ux` 186 | "dao động cao hôm nay còn ảnh hưởng nhiều phiên sau" | Không có ngưỡng biến động trong `thresholds.ts`, từ "cao" không có căn cứ | "Dao động hôm nay khoảng 2% mỗi phiên; cú sốc còn ảnh hưởng vài phiên sau." |
-| N2 | `demo` 422; `ux` 362 và 228 | "Từ 0,3 trở xuống" (demo); "Dưới 0,3" (`ux` glossary #21) | Biên 0,3 không nhất quán giữa ba chỗ | Thống nhất theo `quant-interpretation.ts` (cần đọc để xác nhận dấu so sánh) |
-| N3 | `ux` 350 | "VaR / CVaR: Mức lỗ có thể gặp trong tình huống xấu" | Định nghĩa không đúng | "VaR: mức lỗ không bị vượt với xác suất đã chọn trong khoảng thời gian đã chọn. CVaR: lỗ trung bình trong các trường hợp vượt VaR. Báo cáo chưa có hai số này." |
-| N4 | `demo` 430; `ux` 374 | "P95 thì ngược lại" | Mơ hồ | "P95: 95 trong 100 kịch bản thấp hơn mức này." |
-| N5 | `ux` 380 | "Cách chia vốn theo tỷ lệ thắng" | Kelly cần cả tỷ lệ thắng và tỷ lệ lãi/lỗ | "Cách chia vốn theo tỷ lệ thắng và tỷ lệ lãi/lỗ. Chỉ hiện khi báo cáo bật; không là khuyến nghị." |
-| N6 | `demo` 432; `ux` 376 | "Chi phí hai chiều: Phí mua cộng phí bán" | Định nghĩa quá hẹp. `G2-quant` §2.1: API chỉ có tổng, có thể gồm thuế và trượt giá | "Tổng chi phí hai chiều theo giả định của báo cáo; có thể gồm phí, thuế và trượt giá. BE không tách." |
-| N7 | `demo` 546 | "Thứ hạng trong rổ 80%" | `rank_pct` 80 hiện như xác suất | "Vị trí 80 trên 100 trong rổ." |
-| N8 | `demo` 354 | "Lỗ tối đa khi chờ -4%" | "Tối đa" gợi trường hợp xấu nhất. Thống kê của `max_dd_lock_pct` chưa rõ (trung vị, trung bình hay phân vị) | Ghi thống kê theo BE, hoặc "Sụt giảm khi chờ trong mô phỏng (theo BE)". |
-| N9 | `demo` 298 | "Rủi ro lớn nhất: ..." | Không có quy tắc chọn; cùng dòng có cả sụt giảm lịch sử 12% | "Rủi ro nổi bật" kèm quy tắc chọn (ví dụ module nhóm C đầu tiên có nhãn Thận trọng hoặc Rủi ro cao). |
-| N10 | `demo` 342 | "Chín trong mười lần, giá nằm trong dải P05 đến P95." | Tỷ lệ áp dụng cho từng phiên, không cho cả đường | "Ở mỗi phiên, theo mô phỏng, 9 trong 10 lần giá nằm trong dải P05 đến P95." |
-| N11 | `demo` 512 | "Sức chứa tham chiếu 20.000 cổ phiếu" | Cơ sở chưa rõ (`G2-quant` §8 mục 9) | Thêm "(cơ sở theo BE)" hoặc bỏ đến khi rõ. |
-| N12 | `ux` 145 | Liệt kê Sharpe, CMF, Hurst, HMM là "không có ngưỡng tốt/xấu" | `thresholds.ts` có `sharpeFair`, `sharpeStrong`, `neutralFlow`, `randomHurst`, `majorityPct` | Sửa ví dụ: "neutral: không có tone ok hoặc risk, dù có mốc đọc (Sharpe, Hurst, HMM, CMF)." |
-| N13 | `demo` 537; `ux` 254 | ARIMA có chip `ok` "Ổn theo mốc" trong nhóm Triển vọng | Chip xanh trên chẩn đoán ADF dễ bị đọc là triển vọng | Ghi "Chẩn đoán, không phải dự báo" ngay trên chip, hoặc đổi nhãn sang "Mô tả". Ngưỡng 0,05 khớp `adfSignificance`. |
-| N14 | `demo` 537; `ux` 255 | "Chuỗi lợi suất đủ ổn định để mô hình ARIMA đọc được." | ADF chỉ bác bỏ nghiệm đơn vị ở mức 5%, không đảm bảo ARIMA dùng được | "ADF p 0,012 bác bỏ giả thuyết không ổn định ở mức 5%." |
-| N15 | `demo` 610; `demo` 521; `ux` 229 | "dòng tiền nghiêng bên mua ... Cả hai chỉ là mô tả quá khứ"; "CMF 0,21 trên 0 là áp lực mua" | CMF là ước lượng từ phiên gần đây, không phải quá khứ. "Áp lực mua" là cách đọc mua | "CMF dương (0,21): giá đóng cửa gần đỉnh phiên hơn. Chỉ là mô tả." Sửa "quá khứ" thành "trong giai đoạn quan sát". |
-| N16 | `demo` 526; `ux` 236 | "Mô hình nhận ra pha tăng" | Động từ khẳng định hơn mức mô hình | "Mô hình gọi phiên cuối là pha tăng." |
-| N17 | `ux` 77 | "mô phỏng có 8% khả năng lỗ >3%" | Thiếu "theo mô phỏng", không đồng bộ với B4 | "Theo mô phỏng, khoảng 8% kịch bản lỗ hơn 3% khi chờ." |
-| N18 | `demo` 514-516 (module 01); `demo` 610 (thẻ nhóm A) | "Lợi nhuận trên rủi ro khá" | Đúng ngưỡng nhưng `sharpe` không ghi kỳ tính (năm hay tháng) | Ghi "Sharpe (quy đổi năm, theo BE)" khi BE xác nhận. |
-| N19 | `demo` 588-591; fixture `fx` 19, `analysis` | Hiện cùng lúc ARIMA +0,6%, MC P50 +2,9%, ensemble +4,1% | Ba dự báo 3 phiên khác nhau, không có chú thích. `research.drawdown` chỉ đến -3% trong khi `max_dd_pct` là -12% | Thêm chú thích cạnh module 03 và 09, hoặc sửa fixture. Ghi rõ đây là dữ liệu mẫu. |
-| N20 | `qs` dòng 18 | Nhãn factor "An toàn T+2" | T+2 chưa xác minh (`G2-quant` §1). Khi dùng fixture làm UI, phải thay bằng placeholder | Đổi nhãn thành "An toàn thanh toán [chờ Haiku xác minh]". |
-| N21 | `demo` 588-591 | Nhãn "+1, +2, +3" cho ba giá ARIMA | Chưa xác nhận mảng `forecast.prices` ứng với phiên 1-3 (`G2-quant` §8 mục 10) | Giữ nhãn, thêm "theo BE, chưa xác nhận vị trí phiên" vào ghi chú nội bộ. |
+| # | Vị trí | Câu gốc (trích) | Vấn đề | Sửa đề xuất | Trạng thái |
+|---|---|---|---|---|---|
+| N1 | `demo` 491; `ux` 186 | "dao động cao hôm nay còn ảnh hưởng nhiều phiên sau" | Không có ngưỡng biến động trong `thresholds.ts`, từ "cao" không có căn cứ | "Dao động hôm nay khoảng 2% mỗi phiên; cú sốc còn ảnh hưởng vài phiên sau." | Đã sửa: demo GARCH (why), ux dòng 186 |
+| N2 | `demo` 422; `ux` 362 và 228 | "Từ 0,3 trở xuống" (demo); "Dưới 0,3" (`ux` glossary #21) | Biên 0,3 không nhất quán giữa ba chỗ | Thống nhất theo `quant-interpretation.ts` (cần đọc để xác nhận dấu so sánh) | Đã sửa: ux glossary #21 ("Từ 0,3 trở xuống", khớp `er<=noisyER`); demo giữ nguyên |
+| N3 | `ux` 350 | "VaR / CVaR: Mức lỗ có thể gặp trong tình huống xấu" | Định nghĩa không đúng | "VaR: mức lỗ không bị vượt với xác suất đã chọn trong khoảng thời gian đã chọn. CVaR: lỗ trung bình trong các trường hợp vượt VaR. Báo cáo chưa có hai số này." | Đã sửa: ux glossary #9 |
+| N4 | `demo` 430; `ux` 374 | "P95 thì ngược lại" | Mơ hồ | "P95: 95 trong 100 kịch bản thấp hơn mức này." | Đã sửa: demo glossary `pct`, ux glossary #33 |
+| N5 | `ux` 380 | "Cách chia vốn theo tỷ lệ thắng" | Kelly cần cả tỷ lệ thắng và tỷ lệ lãi/lỗ | "Cách chia vốn theo tỷ lệ thắng và tỷ lệ lãi/lỗ. Chỉ hiện khi báo cáo bật; không là khuyến nghị." | Đã sửa: ux glossary #39 |
+| N6 | `demo` 432; `ux` 376 | "Chi phí hai chiều: Phí mua cộng phí bán" | Định nghĩa quá hẹp. `G2-quant` §2.1: API chỉ có tổng, có thể gồm thuế và trượt giá | "Tổng chi phí hai chiều theo giả định của báo cáo; có thể gồm phí, thuế và trượt giá. BE không tách." | Đã sửa: demo glossary `rt`, ux glossary #35 |
+| N7 | `demo` 546 | "Thứ hạng trong rổ 80%" | `rank_pct` 80 hiện như xác suất | "Vị trí 80 trên 100 trong rổ." | Đã sửa: demo module 07 ("Vị trí trong rổ 80/100"), ux khung 07 và glossary #27 |
+| N8 | `demo` 354 | "Lỗ tối đa khi chờ -4%" | "Tối đa" gợi trường hợp xấu nhất. Thống kê của `max_dd_lock_pct` chưa rõ (trung vị, trung bình hay phân vị) | Ghi thống kê theo BE, hoặc "Sụt giảm khi chờ trong mô phỏng (theo BE)". | Đã sửa: demo module 10 ("Sụt giảm khi chờ (mô phỏng)"), ux khung 10; thống kê của BE vẫn chờ xác nhận |
+| N9 | `demo` 298 | "Rủi ro lớn nhất: ..." | Không có quy tắc chọn; cùng dòng có cả sụt giảm lịch sử 12% | "Rủi ro nổi bật" kèm quy tắc chọn (ví dụ module nhóm C đầu tiên có nhãn Thận trọng hoặc Rủi ro cao). | Chưa sửa: cần quyết định quy tắc chọn rủi ro nổi bật |
+| N10 | `demo` 342 | "Chín trong mười lần, giá nằm trong dải P05 đến P95." | Tỷ lệ áp dụng cho từng phiên, không cho cả đường | "Ở mỗi phiên, theo mô phỏng, 9 trong 10 lần giá nằm trong dải P05 đến P95." | Đã sửa: demo (đoạn mở Monte Carlo, `#p9`), ux khung 10 |
+| N11 | `demo` 512 | "Sức chứa tham chiếu 20.000 cổ phiếu" | Cơ sở chưa rõ (`G2-quant` §8 mục 9) | Thêm "(cơ sở theo BE)" hoặc bỏ đến khi rõ. | Đã sửa: demo module 13 (ghi "cơ sở theo báo cáo"); chờ BE xác nhận cơ sở |
+| N12 | `ux` 145 | Liệt kê Sharpe, CMF, Hurst, HMM là "không có ngưỡng tốt/xấu" | `thresholds.ts` có `sharpeFair`, `sharpeStrong`, `neutralFlow`, `randomHurst`, `majorityPct` | Sửa ví dụ: "neutral: không có tone ok hoặc risk, dù có mốc đọc (Sharpe, Hurst, HMM, CMF)." | Đã sửa: ux §4.1 (bảng tone, dòng `neutral`) |
+| N13 | `demo` 537; `ux` 254 | ARIMA có chip `ok` "Ổn theo mốc" trong nhóm Triển vọng | Chip xanh trên chẩn đoán ADF dễ bị đọc là triển vọng | Ghi "Chẩn đoán, không phải dự báo" ngay trên chip, hoặc đổi nhãn sang "Mô tả". Ngưỡng 0,05 khớp `adfSignificance`. | Đã sửa: demo module 03 (chip "Đạt mốc ADF", câu "không phải dự báo"), ux khung 03 |
+| N14 | `demo` 537; `ux` 255 | "Chuỗi lợi suất đủ ổn định để mô hình ARIMA đọc được." | ADF chỉ bác bỏ nghiệm đơn vị ở mức 5%, không đảm bảo ARIMA dùng được | "ADF p 0,012 bác bỏ giả thuyết không ổn định ở mức 5%." | Đã sửa: demo và ux khung 03 |
+| N15 | `demo` 610; `demo` 521; `ux` 229 | "dòng tiền nghiêng bên mua ... Cả hai chỉ là mô tả quá khứ"; "CMF 0,21 trên 0 là áp lực mua" | CMF là ước lượng từ phiên gần đây, không phải quá khứ. "Áp lực mua" là cách đọc mua | "CMF dương (0,21): giá đóng cửa gần đỉnh phiên hơn. Chỉ là mô tả." Sửa "quá khứ" thành "trong giai đoạn quan sát". | Đã sửa: demo module 06, thẻ nhóm A, glossary `cmf`; ux khung 06 và glossary #20 |
+| N16 | `demo` 526; `ux` 236 | "Mô hình nhận ra pha tăng" | Động từ khẳng định hơn mức mô hình | "Mô hình gọi phiên cuối là pha tăng." | Đã sửa: demo và ux khung 05 ("Mô hình gọi phiên cuối là pha tăng") |
+| N17 | `ux` 77 | "mô phỏng có 8% khả năng lỗ >3%" | Thiếu "theo mô phỏng", không đồng bộ với B4 | "Theo mô phỏng, khoảng 8% kịch bản lỗ hơn 3% khi chờ." | Đã sửa: ux wireframe dòng 77 |
+| N18 | `demo` 514-516 (module 01); `demo` 610 (thẻ nhóm A) | "Lợi nhuận trên rủi ro khá" | Đúng ngưỡng nhưng `sharpe` không ghi kỳ tính (năm hay tháng) | Ghi "Sharpe (quy đổi năm, theo BE)" khi BE xác nhận. | Chưa sửa: chờ BE xác nhận kỳ tính Sharpe |
+| N19 | `demo` 588-591; fixture `fx` 19, `analysis` | Hiện cùng lúc ARIMA +0,6%, MC P50 +2,9%, ensemble +4,1% | Ba dự báo 3 phiên khác nhau, không có chú thích. `research.drawdown` chỉ đến -3% trong khi `max_dd_pct` là -12% | Thêm chú thích cạnh module 03 và 09, hoặc sửa fixture. Ghi rõ đây là dữ liệu mẫu. | Chưa sửa: chỉ là dữ liệu mẫu, đã ghi ở ux §11 (dòng "Fixture complete") |
+| N20 | `qs` dòng 18 | Nhãn factor "An toàn T+2" | T+2 chưa xác minh (`G2-quant` §1). Khi dùng fixture làm UI, phải thay bằng placeholder | Đổi nhãn thành "An toàn thanh toán [chờ Haiku xác minh]". | Ngoài phạm vi: nhãn nằm trong fixture `frontend/`, không đụng theo chỉ đạo |
+| N21 | `demo` 588-591 | Nhãn "+1, +2, +3" cho ba giá ARIMA | Chưa xác nhận mảng `forecast.prices` ứng với phiên 1-3 (`G2-quant` §8 mục 10) | Giữ nhãn, thêm "theo BE, chưa xác nhận vị trí phiên" vào ghi chú nội bộ. | Chưa sửa: chờ BE xác nhận vị trí `forecast.prices` |
 
 ---
 
